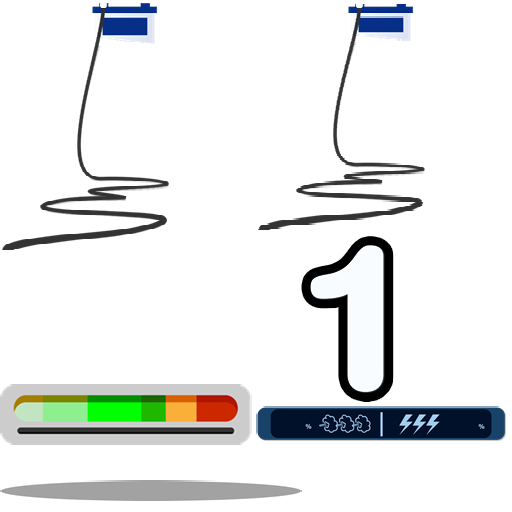
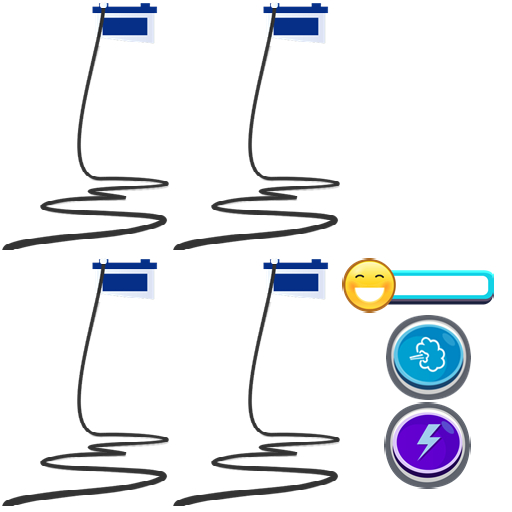
ck

diff --git a/game/scripts/c3runtime.js b/game/scripts/c3runtime.js
@@ -2853,6 +2853,81 @@ if(!wi||!imageInfo)return;if(lastSetCursor===imageInfo)return;lastSetCursor=imag
 'use strict';{const C3=self.C3;C3.Plugins.Mouse.Exps={X(layerParam){return this.GetMousePositionForLayer(layerParam)[0]},Y(layerParam){return this.GetMousePositionForLayer(layerParam)[1]},AbsoluteX(){return this._mouseXcanvas},AbsoluteY(){return this._mouseYcanvas}}};
 
 
+'use strict';{const C3=self.C3;C3.Plugins.Spritefont2=class SpriteFontPlugin extends C3.SDKPluginBase{constructor(opts){super(opts)}Release(){super.Release()}}};
+
+
+'use strict';{const C3=self.C3;C3.Plugins.Spritefont2.Type=class SpriteFontType extends C3.SDKTypeBase{constructor(objectClass){super(objectClass);this._spriteFont=C3.New(self.SpriteFont)}Release(){super.Release()}OnCreate(){this.GetImageInfo().LoadAsset(this._runtime)}LoadTextures(renderer){return this.GetImageInfo().LoadStaticTexture(renderer,{sampling:this._runtime.GetSampling()})}ReleaseTextures(){this.GetImageInfo().ReleaseTexture()}GetSpriteFont(){return this._spriteFont}UpdateSettings(characterWidth,
+characterHeight,characterSet,spacingData){const imageInfo=this.GetImageInfo();const sf=this._spriteFont;sf.SetWidth(imageInfo.GetWidth());sf.SetHeight(imageInfo.GetHeight());sf.SetCharacterWidth(characterWidth);sf.SetCharacterHeight(characterHeight);sf.SetCharacterSet(characterSet);sf.SetSpacingData(spacingData);sf.UpdateCharacterMap()}}};
+
+
+'use strict';{const C3=self.C3;const C3X=self.C3X;const TEXT=0;const ENABLE_BBCODE=1;const CHARACTER_WIDTH=2;const CHARACTER_HEIGHT=3;const CHARACTER_SET=4;const SPACING_DATA=5;const SCALE=6;const CHARACTER_SPACING=7;const LINE_HEIGHT=8;const HORIZONTAL_ALIGNMENT=9;const VERTICAL_ALIGNMENT=10;const WRAPPING=11;const INITIALLY_VISIBLE=12;const ORIGIN=13;const HORIZONTAL_ALIGNMENTS=["left","center","right"];const VERTICAL_ALIGNMENTS=["top","center","bottom"];const WORD_WRAP=0;const CHARACTER_WRAP=1;
+C3.Plugins.Spritefont2.Instance=class SpriteFontInstance extends C3.SDKWorldInstanceBase{constructor(inst,properties){super(inst);this._text="";this._enableBBcode=true;this._characterWidth=16;this._characterHeight=16;this._characterSet="ABCDEFGHIJKLMNOPQRSTUVWXYZabcdefghijklmnopqrstuvwxyz0123456789.,;:?!-_~#\"'&()[]|`\\/@\u00b0+=*$\u00a3\u20ac<>";let spacingData="";this._characterScale=1;this._characterSpacing=0;this._lineHeight=0;this._horizontalAlign=0;this._verticalAlign=0;this._wrapByWord=true;
+this._spriteFontText=null;this._typewriterStartTime=-1;this._typewriterEndTime=-1;this._typewriterLength=0;if(properties){this._text=properties[0];this._enableBBcode=properties[1];this._characterWidth=properties[2];this._characterHeight=properties[3];this._characterSet=properties[4];spacingData=properties[5];this._characterScale=properties[6];this._characterSpacing=properties[7];this._lineHeight=properties[8];this._horizontalAlign=properties[9];this._verticalAlign=properties[10];this._wrapByWord=
+properties[11]===0;const wi=this.GetWorldInfo();wi.SetVisible(properties[12])}this._sdkType.UpdateSettings(this._characterWidth,this._characterHeight,this._characterSet,spacingData);this._spriteFontText=C3.New(self.SpriteFontText,this._sdkType.GetSpriteFont());const wi=this.GetWorldInfo();this._spriteFontText.SetSize(wi.GetWidth(),wi.GetHeight());this._UpdateSettings()}Release(){this._CancelTypewriter();this._spriteFontText.Release();this._spriteFontText=null;super.Release()}_UpdateSettings(){const sft=
+this._spriteFontText;if(!sft)return;sft.SetBBCodeEnabled(this._enableBBcode);sft.SetText(this._text);sft.SetWordWrapMode(this._wrapByWord?"word":"character");sft.SetHorizontalAlign(HORIZONTAL_ALIGNMENTS[this._horizontalAlign]);sft.SetVerticalAlign(VERTICAL_ALIGNMENTS[this._verticalAlign]);sft.SetSpacing(this._characterSpacing);sft.SetLineHeight(this._lineHeight)}Draw(renderer){const imageInfo=this._objectClass.GetImageInfo();const texture=imageInfo.GetTexture();if(!texture)return;renderer.SetTexture(texture);
+const wi=this.GetWorldInfo();let q=wi.GetBoundingQuad();const sft=this._spriteFontText;sft.SetScale(this._characterScale*wi.GetSceneGraphScale());if(this._runtime.IsPixelRoundingEnabled())q=wi.PixelRoundQuad(q);sft.SetSize(wi.GetWidth(),wi.GetHeight());sft.GetSpriteFont().SetTexRect(imageInfo.GetTexRect());sft.SetColor(wi.GetUnpremultipliedColor());sft.Draw(renderer,q.getTlx(),q.getTly(),wi.GetAngle())}SaveToJson(){const ret={"t":this._text,"ebbc":this._enableBBcode,"csc":this._characterScale,"csp":this._characterSpacing,
+"lh":this._lineHeight,"ha":this._horizontalAlign,"va":this._verticalAlign,"w":this._wrapByWord,"cw":this._sdkType.GetSpriteFont().GetCharacterWidth(),"ch":this._sdkType.GetSpriteFont().GetCharacterHeight(),"cs":this._sdkType.GetSpriteFont().GetCharacterSet(),"sd":this._sdkType.GetSpriteFont().GetSpacingData()};if(this._typewriterEndTime!==-1)ret["tw"]={"st":this._typewriterStartTime,"en":this._typewriterEndTime,"l":this._typewriterLength};return ret}LoadFromJson(o){this._CancelTypewriter();this._text=
+o["t"];this._enableBBcode=o["ebbc"];this._characterScale=o["csc"];this._characterSpacing=o["csp"];this._lineHeight=o["lh"];this._horizontalAlign=o["ha"];this._verticalAlign=o["va"];this._wrapByWord=o["w"];if(o.hasOwnProperty("tw")){const tw=o["tw"];this._typewriterStartTime=tw["st"];this._typewriterEndTime=tw["en"];this._typewriterLength=o["l"]}const spriteFont=this._sdkType.GetSpriteFont();spriteFont.SetCharacterWidth(o["cw"]);spriteFont.SetCharacterHeight(o["ch"]);spriteFont.SetCharacterSet(o["cs"]);
+spriteFont.SetSpacingData(o["sd"]);this._UpdateSettings();if(this._typewriterEndTime!==-1)this._StartTicking()}GetPropertyValueByIndex(index){switch(index){case TEXT:return this._text;case ENABLE_BBCODE:return this._enableBBcode;case CHARACTER_WIDTH:return this._sdkType.GetSpriteFont().GetCharacterWidth();case CHARACTER_HEIGHT:return this._sdkType.GetSpriteFont().GetCharacterHeight();case CHARACTER_SET:return this._sdkType.GetSpriteFont().GetCharacterSet();case SPACING_DATA:return this._sdkType.GetSpriteFont().GetSpacingData();
+case SCALE:return this._characterScale;case CHARACTER_SPACING:return this._characterSpacing;case LINE_HEIGHT:return this._lineHeight;case HORIZONTAL_ALIGNMENT:return this._horizontalAlign;case VERTICAL_ALIGNMENT:return this._verticalAlign;case WRAPPING:return this._wrapByWord?CHARACTER_WRAP:WORD_WRAP}}SetPropertyValueByIndex(index,value){switch(index){case TEXT:if(this._text===value)return;this._text=value;this._UpdateSettings();break;case ENABLE_BBCODE:if(this._enableBBcode===!!value)return;this._enableBBcode=
+!!value;this._UpdateSettings();break;case CHARACTER_WIDTH:this._sdkType.GetSpriteFont().SetCharacterWidth(value);break;case CHARACTER_HEIGHT:this._sdkType.GetSpriteFont().SetCharacterHeight(value);break;case CHARACTER_SET:this._sdkType.GetSpriteFont().SetCharacterSet(value);break;case SPACING_DATA:this._sdkType.GetSpriteFont().SetSpacingData(value);break;case SCALE:if(this._characterScale===value)return;this._characterScale=value;this._UpdateSettings();break;case CHARACTER_SPACING:if(this._characterSpacing===
+value)return;this._characterSpacing=value;this._UpdateSettings();break;case LINE_HEIGHT:if(this._lineHeight===value)return;this._lineHeight=value;this._UpdateSettings();break;case HORIZONTAL_ALIGNMENT:if(this._horizontalAlign===value)return;this._horizontalAlign=value;this._UpdateSettings();break;case VERTICAL_ALIGNMENT:if(this._verticalAlign===value)return;this._verticalAlign=value;this._UpdateSettings();break;case WRAPPING:if(this._wrapByWord===(value===WORD_WRAP))return;this._wrapByWord=value===
+WORD_WRAP;this._UpdateSettings();break}}_SetText(text){if(this._text===text)return;this._text=text;this._spriteFontText.SetText(text);this._runtime.UpdateRender()}GetText(){return this._text}_StartTypewriter(text,duration){this._SetText(text);this._typewriterStartTime=this._runtime.GetWallTime();this._typewriterEndTime=this._typewriterStartTime+duration/this.GetInstance().GetActiveTimeScale();this._typewriterLength=C3.BBString.StripAnyTags(text).length;this._spriteFontText.SetDrawMaxCharacterCount(0);
+this._StartTicking()}_CancelTypewriter(){this._typewriterStartTime=-1;this._typewriterEndTime=-1;this._typewriterLength=0;this._spriteFontText.SetDrawMaxCharacterCount(-1);this._StopTicking()}_FinishTypewriter(){if(this._typewriterEndTime===-1)return;this._CancelTypewriter();this.Trigger(C3.Plugins.Spritefont2.Cnds.OnTypewriterTextFinished);this._runtime.UpdateRender()}_SetScale(s){if(this._characterScale===s)return;this._characterScale=s;this._spriteFontText.SetScale(this._characterScale);this._runtime.UpdateRender()}_GetScale(){return this._characterScale}_SetCharacterSpacing(s){if(this._characterSpacing===
+s)return;this._characterSpacing=s;this._spriteFontText.SetSpacing(this._characterSpacing);this._runtime.UpdateRender()}_GetCharacterSpacing(){return this._characterSpacing}_SetLineHeight(h){if(this._lineHeight===h)return;this._lineHeight=h;this._spriteFontText.SetLineHeight(this._lineHeight);this._runtime.UpdateRender()}_GetLineHeight(){return this._lineHeight}_SetHAlign(h){if(this._horizontalAlign===h)return;this._horizontalAlign=h;this._UpdateSettings();this._runtime.UpdateRender()}_GetHAlign(){return this._horizontalAlign}_SetVAlign(v){if(this._verticalAlign===
+v)return;this._verticalAlign=v;this._UpdateSettings();this._runtime.UpdateRender()}_GetVAlign(){return this._verticalAlign}_SetWrapByWord(w){w=!!w;if(this._wrapByWord===w)return;this._wrapByWord=w;this._UpdateSettings();this._runtime.UpdateRender()}_IsWrapByWord(){return this._wrapByWord}Tick(){const wallTime=this._runtime.GetWallTime();if(wallTime>=this._typewriterEndTime){this._CancelTypewriter();this.Trigger(C3.Plugins.Spritefont2.Cnds.OnTypewriterTextFinished);this._runtime.UpdateRender()}else{let displayLength=
+C3.relerp(this._typewriterStartTime,this._typewriterEndTime,wallTime,0,this._typewriterLength);displayLength=Math.floor(displayLength);if(displayLength!==this._spriteFontText.GetDrawMaxCharacterCount()){this._spriteFontText.SetDrawMaxCharacterCount(displayLength);this._runtime.UpdateRender()}}}GetDebuggerProperties(){const prefix="plugins.spritefont2";return[{title:prefix+".name",properties:[{name:prefix+".properties.text.name",value:this._text,onedit:v=>this._SetText(v)}]}]}GetScriptInterfaceClass(){return self.ISpriteFontInstance}};
+const map=new WeakMap;const SCRIPT_HORIZONTAL_ALIGNMENTS=new Map([["left",0],["center",1],["right",2]]);const SCRIPT_VERTICAL_ALIGNMENTS=new Map([["top",0],["center",1],["bottom",2]]);const SCRIPT_WRAP_MODES=new Map([["word",true],["character",false]]);self.ISpriteFontInstance=class ISpriteFontInstance extends self.IWorldInstance{constructor(){super();map.set(this,self.IInstance._GetInitInst().GetSdkInstance())}get text(){return map.get(this).GetText()}set text(str){C3X.RequireString(str);const inst=
+map.get(this);inst._CancelTypewriter();inst._SetText(str)}typewriterText(str,duration){C3X.RequireString(str);C3X.RequireFiniteNumber(duration);const inst=map.get(this);inst._CancelTypewriter();inst._StartTypewriter(str,duration)}typewriterFinish(){map.get(this)._FinishTypewriter()}set characterScale(s){C3X.RequireFiniteNumber(s);map.get(this)._SetScale(s)}get characterScale(){return map.get(this)._GetScale()}set characterSpacing(s){C3X.RequireFiniteNumber(s);map.get(this)._SetCharacterSpacing(s)}get characterSpacing(){return map.get(this)._GetCharacterSpacing()}set lineHeight(lho){C3X.RequireFiniteNumber(lho);
+map.get(this)._SetLineHeight(lho)}get lineHeight(){return map.get(this)._GetLineHeight()}set horizontalAlign(str){C3X.RequireString(str);const h=SCRIPT_HORIZONTAL_ALIGNMENTS.get(str);if(typeof h==="undefined")throw new Error("invalid mode");map.get(this)._SetHAlign(h)}get horizontalAlign(){return HORIZONTAL_ALIGNMENTS[map.get(this)._GetHAlign()]}set verticalAlign(str){C3X.RequireString(str);const v=SCRIPT_VERTICAL_ALIGNMENTS.get(str);if(typeof v==="undefined")throw new Error("invalid mode");map.get(this)._SetVAlign(v)}get verticalAlign(){return VERTICAL_ALIGNMENTS[map.get(this)._GetVAlign()]}set wordWrapMode(str){C3X.RequireString(str);
+const isWrapByWord=SCRIPT_WRAP_MODES.get(str);if(typeof isWrapByWord==="undefined")throw new Error("invalid mode");map.get(this)._SetWrapByWord(isWrapByWord)}get wordWrapMode(){return map.get(this)._IsWrapByWord()?"word":"character"}}};
+
+
+'use strict';{const C3=self.C3;C3.Plugins.Spritefont2.Cnds={CompareText(text,caseSensitive){if(caseSensitive)return this._text===text;else return C3.equalsNoCase(this._text,text)},IsRunningTypewriterText(){return this._typewriterEndTime!==-1},OnTypewriterTextFinished(){return true}}};
+
+
+'use strict';{const C3=self.C3;C3.Plugins.Spritefont2.Acts={SetText(param){this._CancelTypewriter();if(typeof param==="number"&&param<1E9)param=Math.round(param*1E10)/1E10;this._SetText(param.toString())},AppendText(param){this._CancelTypewriter();if(typeof param==="number"&&param<1E9)param=Math.round(param*1E10)/1E10;param=param.toString();if(!param)return;this._SetText(this._text+param)},TypewriterText(param,duration){this._CancelTypewriter();if(typeof param==="number"&&param<1E9)param=Math.round(param*
+1E10)/1E10;this._StartTypewriter(param.toString(),duration)},TypewriterFinish(){this._FinishTypewriter()},SetScale(s){this._SetScale(s)},SetCharacterSpacing(s){this._SetCharacterSpacing(s)},SetLineHeight(h){this._SetLineHeight(h)},SetCharacterWidth(chars,width){let didAnyChange=false;const spriteFont=this._sdkType.GetSpriteFont();for(const ch of chars)if(ch===" "){spriteFont.SetSpaceWidth(width);didAnyChange=true}else{const sfc=spriteFont.GetCharacter(ch);if(sfc){sfc.SetDisplayWidth(width);didAnyChange=
+true}}if(didAnyChange)spriteFont.SetCharacterWidthsChanged();this._runtime.UpdateRender()},SetEffect(effect){this.GetWorldInfo().SetBlendMode(effect);this._runtime.UpdateRender()},SetHAlign(h){this._SetHAlign(h)},SetVAlign(v){this._SetVAlign(v)},SetWrapping(w){this._SetWrapByWord(w===0)}}};
+
+
+'use strict';{const C3=self.C3;C3.Plugins.Spritefont2.Exps={CharacterWidth(ch){const sfc=this._sdkType.GetSpriteFont().GetCharacter(ch);if(sfc)return sfc.GetDisplayWidth();else return this._sdkType.GetSpriteFont().GetCharacterWidth()},CharacterHeight(){return this._characterHeight},CharacterScale(){return this._characterScale},CharacterSpacing(){return this._characterSpacing},LineHeight(){return this._lineHeight},Text(){return this._text},PlainText(){if(this._enableBBcode)return C3.BBString.StripAnyTags(this._text);
+else return this._text},TextWidth(){const wi=this.GetWorldInfo();this._spriteFontText.SetSize(wi.GetWidth(),wi.GetHeight());return this._spriteFontText.GetTextWidth()},TextHeight(){const wi=this.GetWorldInfo();this._spriteFontText.SetSize(wi.GetWidth(),wi.GetHeight());return this._spriteFontText.GetTextHeight()}}};
+
+
+'use strict';{const C3=self.C3;self.SpriteFontCharacter=class SpriteFontCharacter{constructor(spriteFont,char,x,y){let charWidth=spriteFont.GetCharacterWidth();let charHeight=spriteFont.GetCharacterHeight();this._spriteFont=spriteFont;this._char=char;this._pxRect=new C3.Rect(x,y,x+charWidth,y+charHeight);this._texRect=new C3.Rect;this._displayWidth=-1;this._UpdateTexRect()}Release(){this._spriteFont=null;this._pxRect=null;this._texRect=null}_UpdateTexRect(){let w=this._spriteFont.GetWidth();let h=
+this._spriteFont.GetHeight();this._texRect.copy(this._pxRect);this._texRect.divide(w,h);this._texRect.lerpInto(this._spriteFont.GetTexRect())}GetSpriteFont(){return this._spriteFont}GetChar(){return this._char}GetTexRect(){return this._texRect}SetDisplayWidth(w){this._displayWidth=w}GetDisplayWidth(){if(this._displayWidth<0)return this._spriteFont.GetCharacterWidth();else return this._displayWidth}}};
+
+
+'use strict';{const C3=self.C3;const tmpRect=new C3.Rect;const tmpQuad=new C3.Quad;const tmpColor=new C3.Color;const VALID_HORIZ_ALIGNMENTS=new Set(["left","center","right"]);const VALID_VERT_ALIGNMENTS=new Set(["top","center","bottom"]);const VALID_WORD_WRAP_MODES=new Set(["word","character"]);self.SpriteFontText=class SpriteFontText{constructor(spriteFont){this._spriteFont=spriteFont;this._cssWidth=0;this._cssHeight=0;this._text="";this._isBBcodeEnabled=false;this._bbString=null;this._wrappedText=
+C3.New(C3.WordWrap);this._wrapMode="word";this._wrapChanged=false;this._horizontalAlign="left";this._verticalAlign="top";this._scale=1;this._spacing=0;this._lineHeight=0;this._color=C3.New(C3.Color);this._drawMaxCharCount=-1;this._drawCharCount=0;this._measureTextCallback=(str,styles)=>this._MeasureText(str,styles);this._spriteFont._AddSpriteFontText(this)}Release(){this._spriteFont._RemoveSpriteFontText(this);this._color=null;this._measureTextCallback=null;this._wrappedText.Clear();this._wrappedText=
+null;this._spriteFont=null;this._bbString=null}_MeasureText(str,styles){const scaleStyle=this._GetStyleTag(styles,"scale");const scale=scaleStyle?parseFloat(scaleStyle.param):this._scale;const scaleXStyle=this._GetStyleTag(styles,"scalex");const scaleX=(scaleXStyle?parseFloat(scaleXStyle.param):1)*scale;const scaleYStyle=this._GetStyleTag(styles,"scaley");const scaleY=(scaleYStyle?parseFloat(scaleYStyle.param):1)*scale;const lineTotalHeight=this._spriteFont.GetCharacterHeight()*scaleY+this._lineHeight;
+const spriteFont=this.GetSpriteFont();const defaultCharWidth=spriteFont.GetCharacterWidth()*scaleX;const spacing=this.GetSpacing();if(spriteFont.HasAnyCustomWidths()){let strLen=0;let totalWidth=0;for(const ch of str){let charWidth=defaultCharWidth;const sfc=spriteFont.GetCharacter(ch);if(sfc)charWidth=sfc.GetDisplayWidth()*scaleX;else if(ch===" ")charWidth=spriteFont.GetSpaceWidth()*scaleX;totalWidth+=charWidth;++strLen}return{width:totalWidth+strLen*spacing,height:lineTotalHeight}}else{const strLen=
+[...str].length;const spaceCount=Math.max(strLen,0);return{width:defaultCharWidth*strLen+spaceCount*spacing,height:lineTotalHeight}}}_SetWrapChanged(){this._wrapChanged=true;this._wrappedText.Clear()}SetSize(cssWidth,cssHeight){if(cssWidth<=0||cssHeight<=0)return;if(this._cssWidth===cssWidth&&this._cssHeight===cssHeight)return;if(this._cssWidth!==cssWidth)this._SetWrapChanged();this._cssWidth=cssWidth;this._cssHeight=cssHeight}SetDrawMaxCharacterCount(n){this._drawMaxCharCount=Math.floor(n)}GetDrawMaxCharacterCount(){return this._drawMaxCharCount}_GetStyleTag(styles,
+tag){for(let i=styles.length-1;i>=0;--i){const s=styles[i];if(s.tag===tag)return s}return null}_HasStyleTag(styles,tag){return!!this._GetStyleTag(styles,tag)}_MaybeWrapText(){if(!this._wrapChanged)return;if(this._isBBcodeEnabled&&(!this._bbString||this._bbString.toString()!==this._text))this._bbString=new C3.BBString(this._text,{noEscape:true});const endOfLineMargin=-this.GetSpacing();this._wrappedText.WordWrap(this._isBBcodeEnabled?this._bbString.toFragmentList():this._text,this._measureTextCallback,
+this._cssWidth,this._wrapMode,endOfLineMargin);this._wrapChanged=false}Draw(renderer,offX,offY,angle){this._MaybeWrapText();this._drawCharCount=0;let penY=0;const lineSpaceHeight=this._lineHeight;const lines=C3.cloneArray(this._wrappedText.GetLines());const sin_a=Math.sin(angle);const cos_a=Math.cos(angle);const linesTotalHeight=lines.reduce((a,v)=>a+v.height,0)-lineSpaceHeight;if(this._verticalAlign==="center")penY=Math.max(Math.floor(this._cssHeight/2-linesTotalHeight/2),0);else if(this._verticalAlign===
+"bottom")penY=Math.floor(this._cssHeight-linesTotalHeight);for(let i=0,len=lines.length;i<len;++i){const line=lines[i];const curLineTextHeight=line.height;if(i>0&&penY>this._cssHeight-(curLineTextHeight-lineSpaceHeight))break;if(penY>=0)this._DrawLine(renderer,line,offX,offY,penY,sin_a,cos_a);penY+=curLineTextHeight}}_DrawLine(renderer,line,offX,offY,penY,sin_a,cos_a){const lineHeight=line.height;let penX=0;if(this._horizontalAlign==="center")penX=Math.max(Math.floor((this._cssWidth-line.width)/2),
+0);else if(this._horizontalAlign==="right")penX=Math.max(Math.floor(this._cssWidth-line.width),0);for(const frag of line.fragments){this._DrawFragment(renderer,frag,offX,offY,penX,penY,sin_a,cos_a,lineHeight);penX+=frag.width}}_DrawFragment(renderer,frag,offX,offY,penX,penY,sin_a,cos_a,lineHeight){let text=frag.text;let fragWidth=frag.width;const styles=frag.styles;if(this._drawMaxCharCount!==-1){if(this._drawCharCount>=this._drawMaxCharCount)return;if(this._drawCharCount+text.length>this._drawMaxCharCount){text=
+text.substr(0,this._drawMaxCharCount-this._drawCharCount);fragWidth=this._MeasureText(text,styles).width}this._drawCharCount+=text.length}const backgroundStyle=this._GetStyleTag(styles,"background");if(C3.IsStringAllWhitespace(text)&&!backgroundStyle||this._HasStyleTag(styles,"hide"))return;const scaleStyle=this._GetStyleTag(styles,"scale");const scale=scaleStyle?parseFloat(scaleStyle.param):this._scale;const scaleXStyle=this._GetStyleTag(styles,"scalex");const scaleX=(scaleXStyle?parseFloat(scaleXStyle.param):
+1)*scale;const scaleYStyle=this._GetStyleTag(styles,"scaley");const scaleY=(scaleYStyle?parseFloat(scaleYStyle.param):1)*scale;const charHeight=this._spriteFont.GetCharacterHeight()*scaleY;const lineSpaceHeight=this._lineHeight;penY+=lineHeight-lineSpaceHeight-charHeight;const offsetXStyle=this._GetStyleTag(styles,"offsetx");penX+=offsetXStyle?parseFloat(offsetXStyle.param):0;const offsetYStyle=this._GetStyleTag(styles,"offsety");penY+=offsetYStyle?parseFloat(offsetYStyle.param):0;if(backgroundStyle){renderer.SetColorFillMode();
+tmpColor.parseString(backgroundStyle.param);tmpColor.setA(1);renderer.SetColor(tmpColor);tmpRect.set(penX,penY,penX+fragWidth,penY+charHeight);if(tmpRect.getRight()>this._cssWidth)tmpRect.setRight(this._cssWidth);tmpQuad.setFromRotatedRectPrecalc(tmpRect,sin_a,cos_a);tmpQuad.offset(offX,offY);renderer.Quad(tmpQuad);renderer.SetTextureFillMode()}const colorStyle=this._GetStyleTag(styles,"color");if(colorStyle){tmpColor.parseString(colorStyle.param);tmpColor.setA(this._color.getA())}else tmpColor.copy(this._color);
+const opacityStyle=this._GetStyleTag(styles,"opacity");if(opacityStyle)tmpColor.setA(tmpColor.getA()*parseFloat(opacityStyle.param)/100);tmpColor.premultiply();renderer.SetColor(tmpColor);const drawCharWidth=this._spriteFont.GetCharacterWidth()*scaleX;const endOfLineMargin=Math.abs(this.GetSpacing());for(const ch of text){const sfc=this._spriteFont.GetCharacter(ch);if(sfc){const layoutCharWidth=sfc.GetDisplayWidth()*scaleX;if(penX+layoutCharWidth>this._cssWidth+endOfLineMargin+1E-5)return;tmpRect.set(penX,
+penY,penX+drawCharWidth,penY+charHeight);tmpQuad.setFromRotatedRectPrecalc(tmpRect,sin_a,cos_a);tmpQuad.offset(offX,offY);renderer.Quad3(tmpQuad,sfc.GetTexRect());penX+=layoutCharWidth+this._spacing}else penX+=this._spriteFont.GetSpaceWidth()*scaleX+this._spacing}}GetSpriteFont(){return this._spriteFont}SetBBCodeEnabled(e){e=!!e;if(this._isBBcodeEnabled===e)return;this._isBBcodeEnabled=e;this._SetWrapChanged()}IsBBCodeEnabled(){return this._isBBcodeEnabled}SetText(text){if(this._text===text)return;
+this._text=text;this._SetWrapChanged()}SetWordWrapMode(w){if(!VALID_WORD_WRAP_MODES.has(w))throw new Error("invalid word wrap mode");if(this._wrapMode===w)return;this._wrapMode=w;this._SetWrapChanged()}SetHorizontalAlign(a){if(!VALID_HORIZ_ALIGNMENTS.has(a))throw new Error("invalid alignment");this._horizontalAlign=a}SetVerticalAlign(a){if(!VALID_VERT_ALIGNMENTS.has(a))throw new Error("invalid alignment");this._verticalAlign=a}SetScale(s){if(this._scale===s)return;this._scale=s;this._SetWrapChanged()}GetScale(){return this._scale}SetSpacing(s){if(this._spacing===
+s)return;this._spacing=s;this._SetWrapChanged()}GetSpacing(){return this._spacing}SetLineHeight(h){this._lineHeight=h;this._SetWrapChanged()}GetLineHeight(){return this._lineHeight}SetOpacity(o){o=C3.clamp(o,0,1);this._color.a=o}SetColor(c){if(this._color.equals(c))return;this._color.copy(c)}GetColor(){return this._color}GetTextWidth(){this._MaybeWrapText();return this._wrappedText.GetMaxLineWidth()}GetTextHeight(){this._MaybeWrapText();const lineTextHeight=this._spriteFont.GetCharacterHeight()*this._scale;
+const lineSpaceHeight=this._lineHeight;const lineTotalHeight=lineTextHeight+lineSpaceHeight;return this._wrappedText.GetLineCount()*lineTotalHeight-lineSpaceHeight}}};
+
+
+'use strict';{const C3=self.C3;const SpriteFontText=self.SpriteFontText;const DEFAULT_SPRITEFONT_OPTS={width:256,height:256,characterWidth:16,characterHeight:16,characterSet:""};self.SpriteFont=class SpriteFont{constructor(opts){opts=Object.assign({},DEFAULT_SPRITEFONT_OPTS,opts);if(opts.width<=0||opts.height<=0||opts.characterWidth<=0||opts.characterHeight<=0)throw new Error("invalid size");this._width=opts.width;this._height=opts.height;this._characterWidth=opts.characterWidth;this._characterHeight=
+opts.characterHeight;this._characterSet=opts.characterSet;this._spacingData="";this._spacingParsed=null;this._hasAnyCustomWidths=false;this._spaceWidth=-1;this._texRect=new C3.Rect(0,0,1,1);this._characterMap=new Map;this._mapChanged=true;this._allTexts=new Set}Release(){this._texRect=null;this._ReleaseCharacters();this._characterMap=null;if(this._allTexts)this._allTexts.clear();this._allTexts=null}_ReleaseCharacters(){for(let c of this._characterMap.values())c.Release();this._characterMap.clear()}_AddSpriteFontText(sft){this._allTexts.add(sft)}_RemoveSpriteFontText(sft){this._allTexts.delete(sft)}UpdateCharacterMap(){if(!this._mapChanged)return;
+this._ReleaseCharacters();let charSetArr=[...this._characterSet];let cols=Math.floor(this._width/this._characterWidth);let rows=Math.floor(this._height/this._characterHeight);let last=cols*rows;for(let i=0,len=charSetArr.length;i<len;++i){if(i>=last)break;let x=i%cols;let y=Math.floor(i/cols);let char=charSetArr[i];this._characterMap.set(char,C3.New(self.SpriteFontCharacter,this,char,x*this._characterWidth,y*this._characterHeight))}this._hasAnyCustomWidths=false;this._spaceWidth=-1;if(Array.isArray(this._spacingParsed))for(let entry of this._spacingParsed){if(!Array.isArray(entry))continue;
+if(entry.length!==2)continue;let charWidth=entry[0];let str=entry[1];if(typeof charWidth!=="number"||!isFinite(charWidth)||typeof str!=="string")continue;if(charWidth===this._characterWidth)continue;for(let ch of str){let sfc=this._characterMap.get(ch);if(sfc){sfc.SetDisplayWidth(charWidth);this._hasAnyCustomWidths=true}else if(ch===" "){this._spaceWidth=charWidth;this._hasAnyCustomWidths=true}}}this._mapChanged=false;for(let sft of this._allTexts)sft._SetWrapChanged()}SetCharacterWidthsChanged(){this._hasAnyCustomWidths=
+true;for(const sft of this._allTexts)sft._SetWrapChanged()}GetCharacter(ch){this.UpdateCharacterMap();return this._characterMap.get(ch)||null}HasAnyCustomWidths(){return this._hasAnyCustomWidths}SetWidth(w){w=Math.floor(w);if(w<=0)throw new Error("invalid size");if(this._width===w)return;this._width=w;this._mapChanged=true}GetWidth(){return this._width}SetHeight(h){h=Math.floor(h);if(h<=0)throw new Error("invalid size");if(this._height===h)return;this._height=h;this._mapChanged=true}GetHeight(){return this._height}SetTexRect(rc){if(this._texRect.equals(rc))return;
+this._texRect.copy(rc);for(const sfc of this._characterMap.values())sfc._UpdateTexRect()}GetTexRect(){return this._texRect}SetCharacterWidth(w){w=Math.floor(w);if(w<=0)throw new Error("invalid size");if(this._characterWidth===w)return;this._characterWidth=w;this._mapChanged=true}GetCharacterWidth(){return this._characterWidth}SetCharacterHeight(h){h=Math.floor(h);if(h<=0)throw new Error("invalid size");if(this._characterHeight===h)return;this._characterHeight=h;this._mapChanged=true}GetCharacterHeight(){return this._characterHeight}SetCharacterSet(s){if(this._characterSet===
+s)return;this._characterSet=s;this._mapChanged=true}GetCharacterSet(){return this._characterSet}SetSpacingData(s){if(this._spacingData===s)return;this._spacingData=s;this._mapChanged=true;this._spacingParsed=null;if(this._spacingData.length)try{this._spacingParsed=JSON.parse(this._spacingData)}catch(e){this._spacingParsed=null}}GetSpacingData(){return this._spacingData}SetSpaceWidth(w){if(w<0)w=-1;if(this._spaceWidth===w)return;this._spaceWidth=w;if(this._spaceWidth>=0)this._hasAnyCustomWidths=true}GetSpaceWidth(){if(this._spaceWidth<
+0)return this._characterWidth;else return this._spaceWidth}}};
+
+
 'use strict';{const C3=self.C3;C3.Behaviors.Bullet=class BulletBehavior extends C3.SDKBehaviorBase{constructor(opts){super(opts)}Release(){super.Release()}}};
 
 
@@ -2924,6 +2999,7 @@ value:this._waitTime,onedit:v=>this._waitTime=v},{name:prefix+".properties.fade-
 		C3.Behaviors.Fade,
 		C3.Plugins.Button,
 		C3.Plugins.Mouse,
+		C3.Plugins.Spritefont2,
 		C3.Plugins.System.Cnds.OnLayoutStart,
 		C3.Plugins.System.Acts.SetVar,
 		C3.Plugins.System.Exps.int,
@@ -2946,6 +3022,7 @@ value:this._waitTime,onedit:v=>this._waitTime=v},{name:prefix+".properties.fade-
 		C3.Plugins.Sprite.Acts.SetScale,
 		C3.Plugins.System.Acts.Wait,
 		C3.Plugins.System.Cnds.CompareBetween,
+		C3.Plugins.Spritefont2.Acts.SetText,
 		C3.Plugins.Sprite.Acts.Spawn,
 		C3.Plugins.Sprite.Acts.SetPos,
 		C3.Plugins.Sprite.Exps.X,
@@ -2993,6 +3070,8 @@ value:this._waitTime,onedit:v=>this._waitTime=v},{name:prefix+".properties.fade-
 		{tElec: 0},
 		{tWheel: 0},
 		{Mouse: 0},
+		{SpriteFont: 0},
+		{tScore2: 0},
 		{gScore: 0},
 		{gCurrentFrame: 0},
 		{gNumCountClick: 0},
